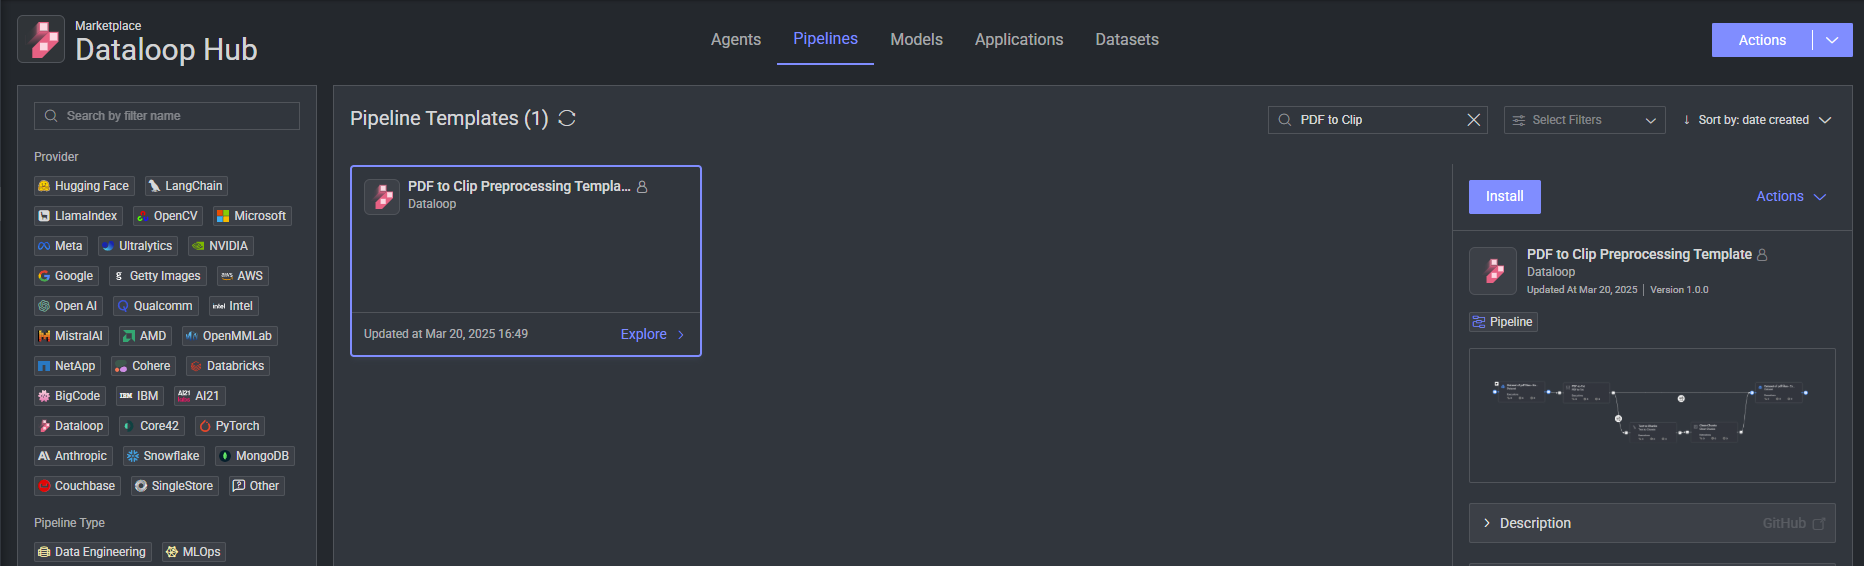
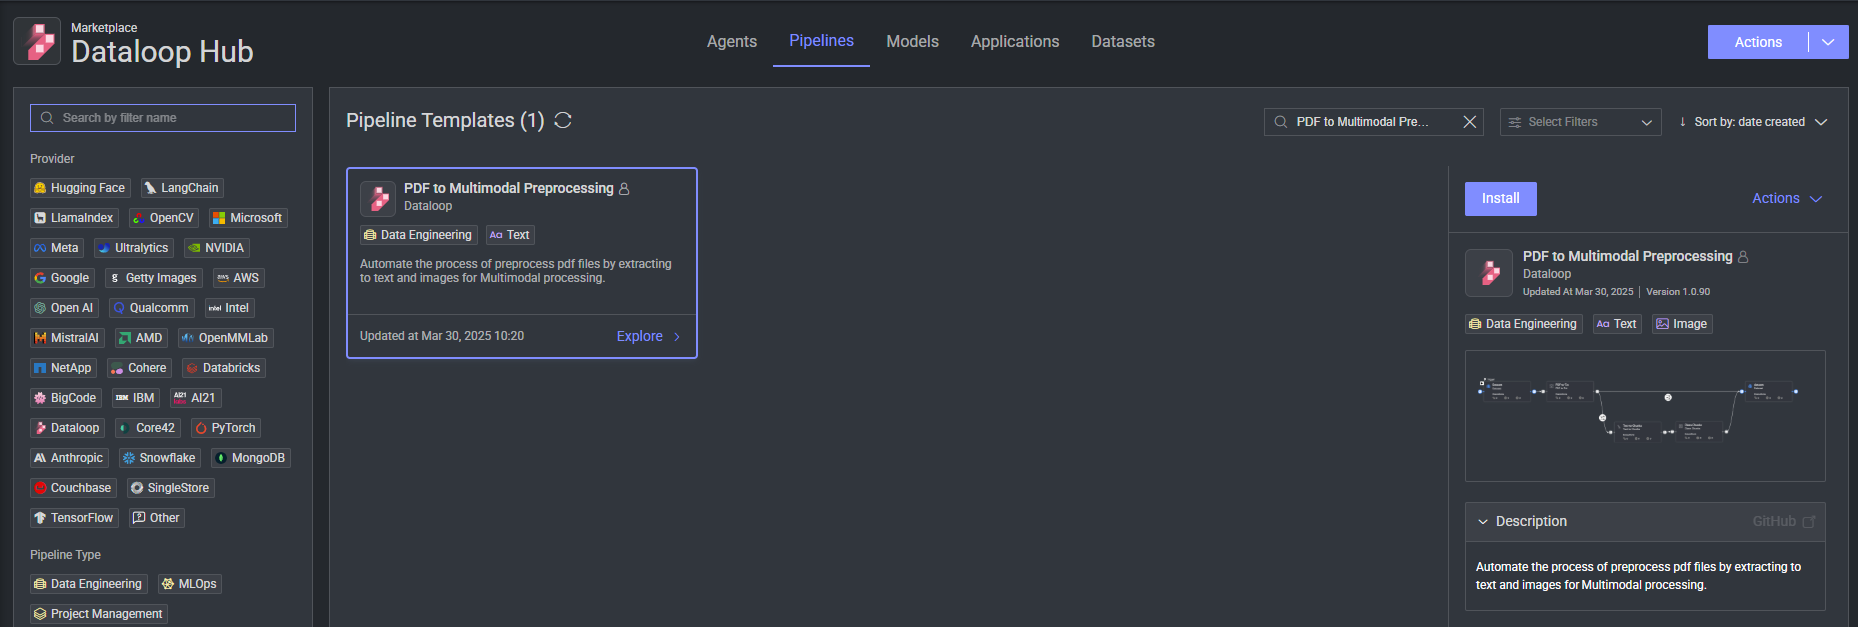
updated template name

diff --git a/document_preprocessing/pdf/pdf_to_clip/README.md b/document_preprocessing/pdf/pdf_to_clip/README.md
@@ -1,4 +1,4 @@
-# PDF to CLIP Preprocessing Template
+# PDF to Multimodal Preprocessing Template
 
 <img src="assets/pipeline.png" alt="Image of the pipeline">
 
@@ -8,7 +8,8 @@ This template creates the process of converting pdf items to text and image file
 Each file is generated for a specific chunk of data. 
 The text files undergo preprocessing using cleaning functions provided by the `UnstructuredIO` library.
 
-All extracted items are transferred to the target dataset, where CLIP can be applied to extract embeddings on both the text and image files.
+The processed text and image files are then stored in the target dataset, 
+making them suitable for multimodal workflows involving language models, vision models, or hybrid systems that operate on both text and visual inputs.
 
 ### Installation:
 
@@ -23,7 +24,7 @@ There are two options for installing and using the template:
 
 2. Marketplace
 
-* In the search bar, type `PDF to Clip Preprocessing Template`, select the template and click install.
+* In the search bar, type `PDF to Multimodal Preprocessing`, select the template and click install.
 * Once the template is installed, click on *Create Pipeline*.
 
 <img src="assets/marketplace.png" alt="Image of the pipeline">
